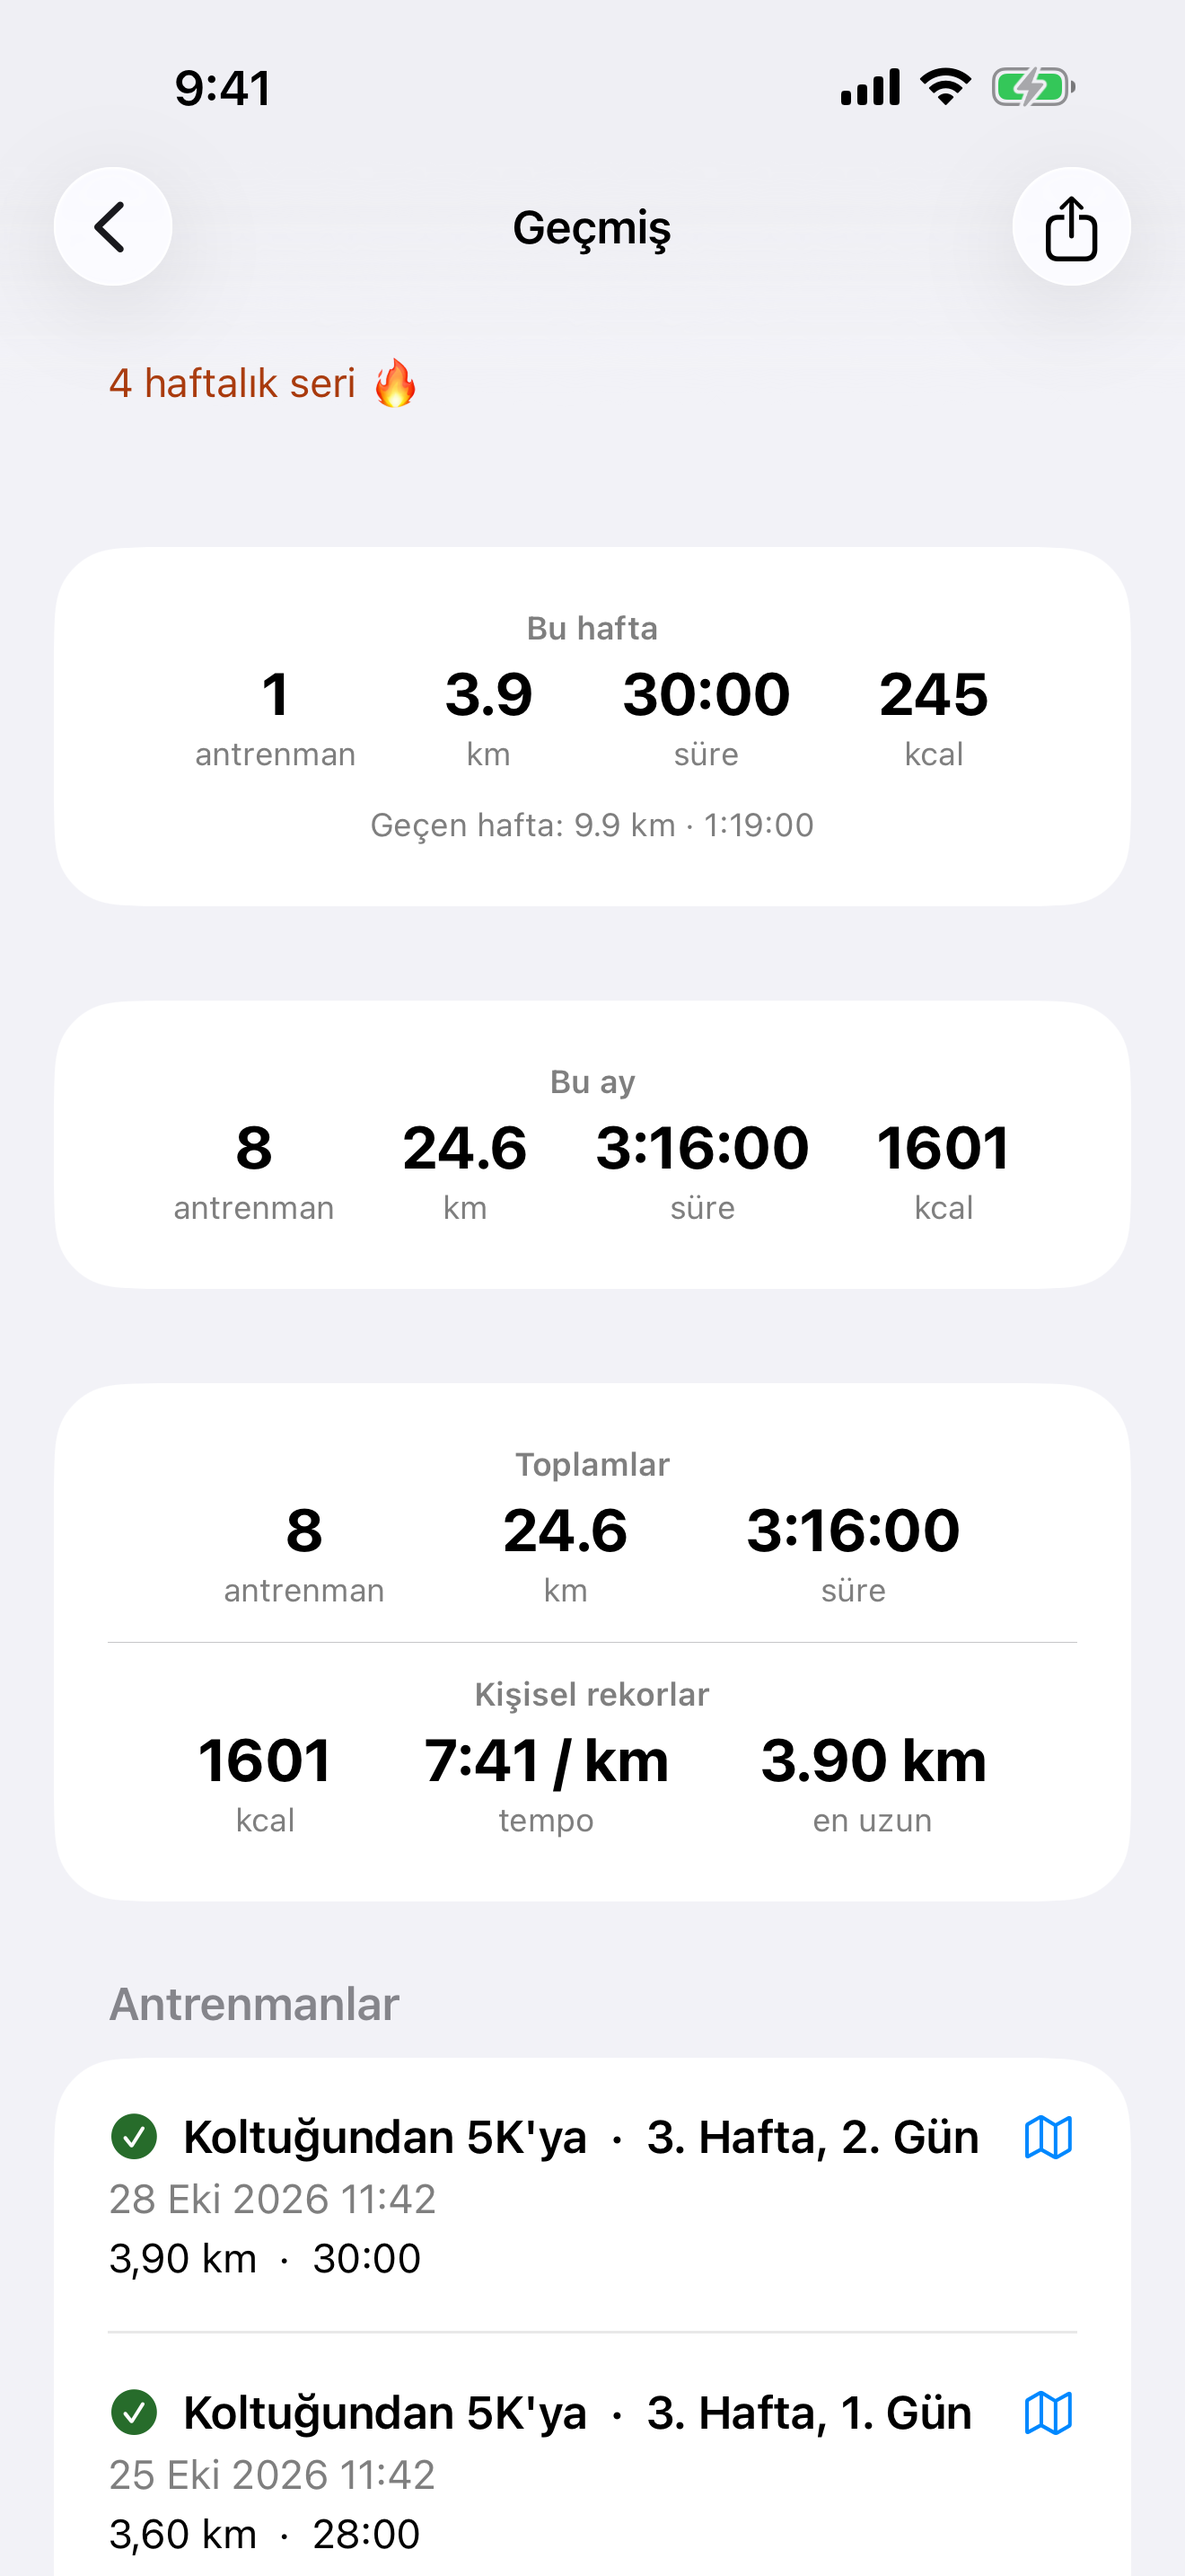
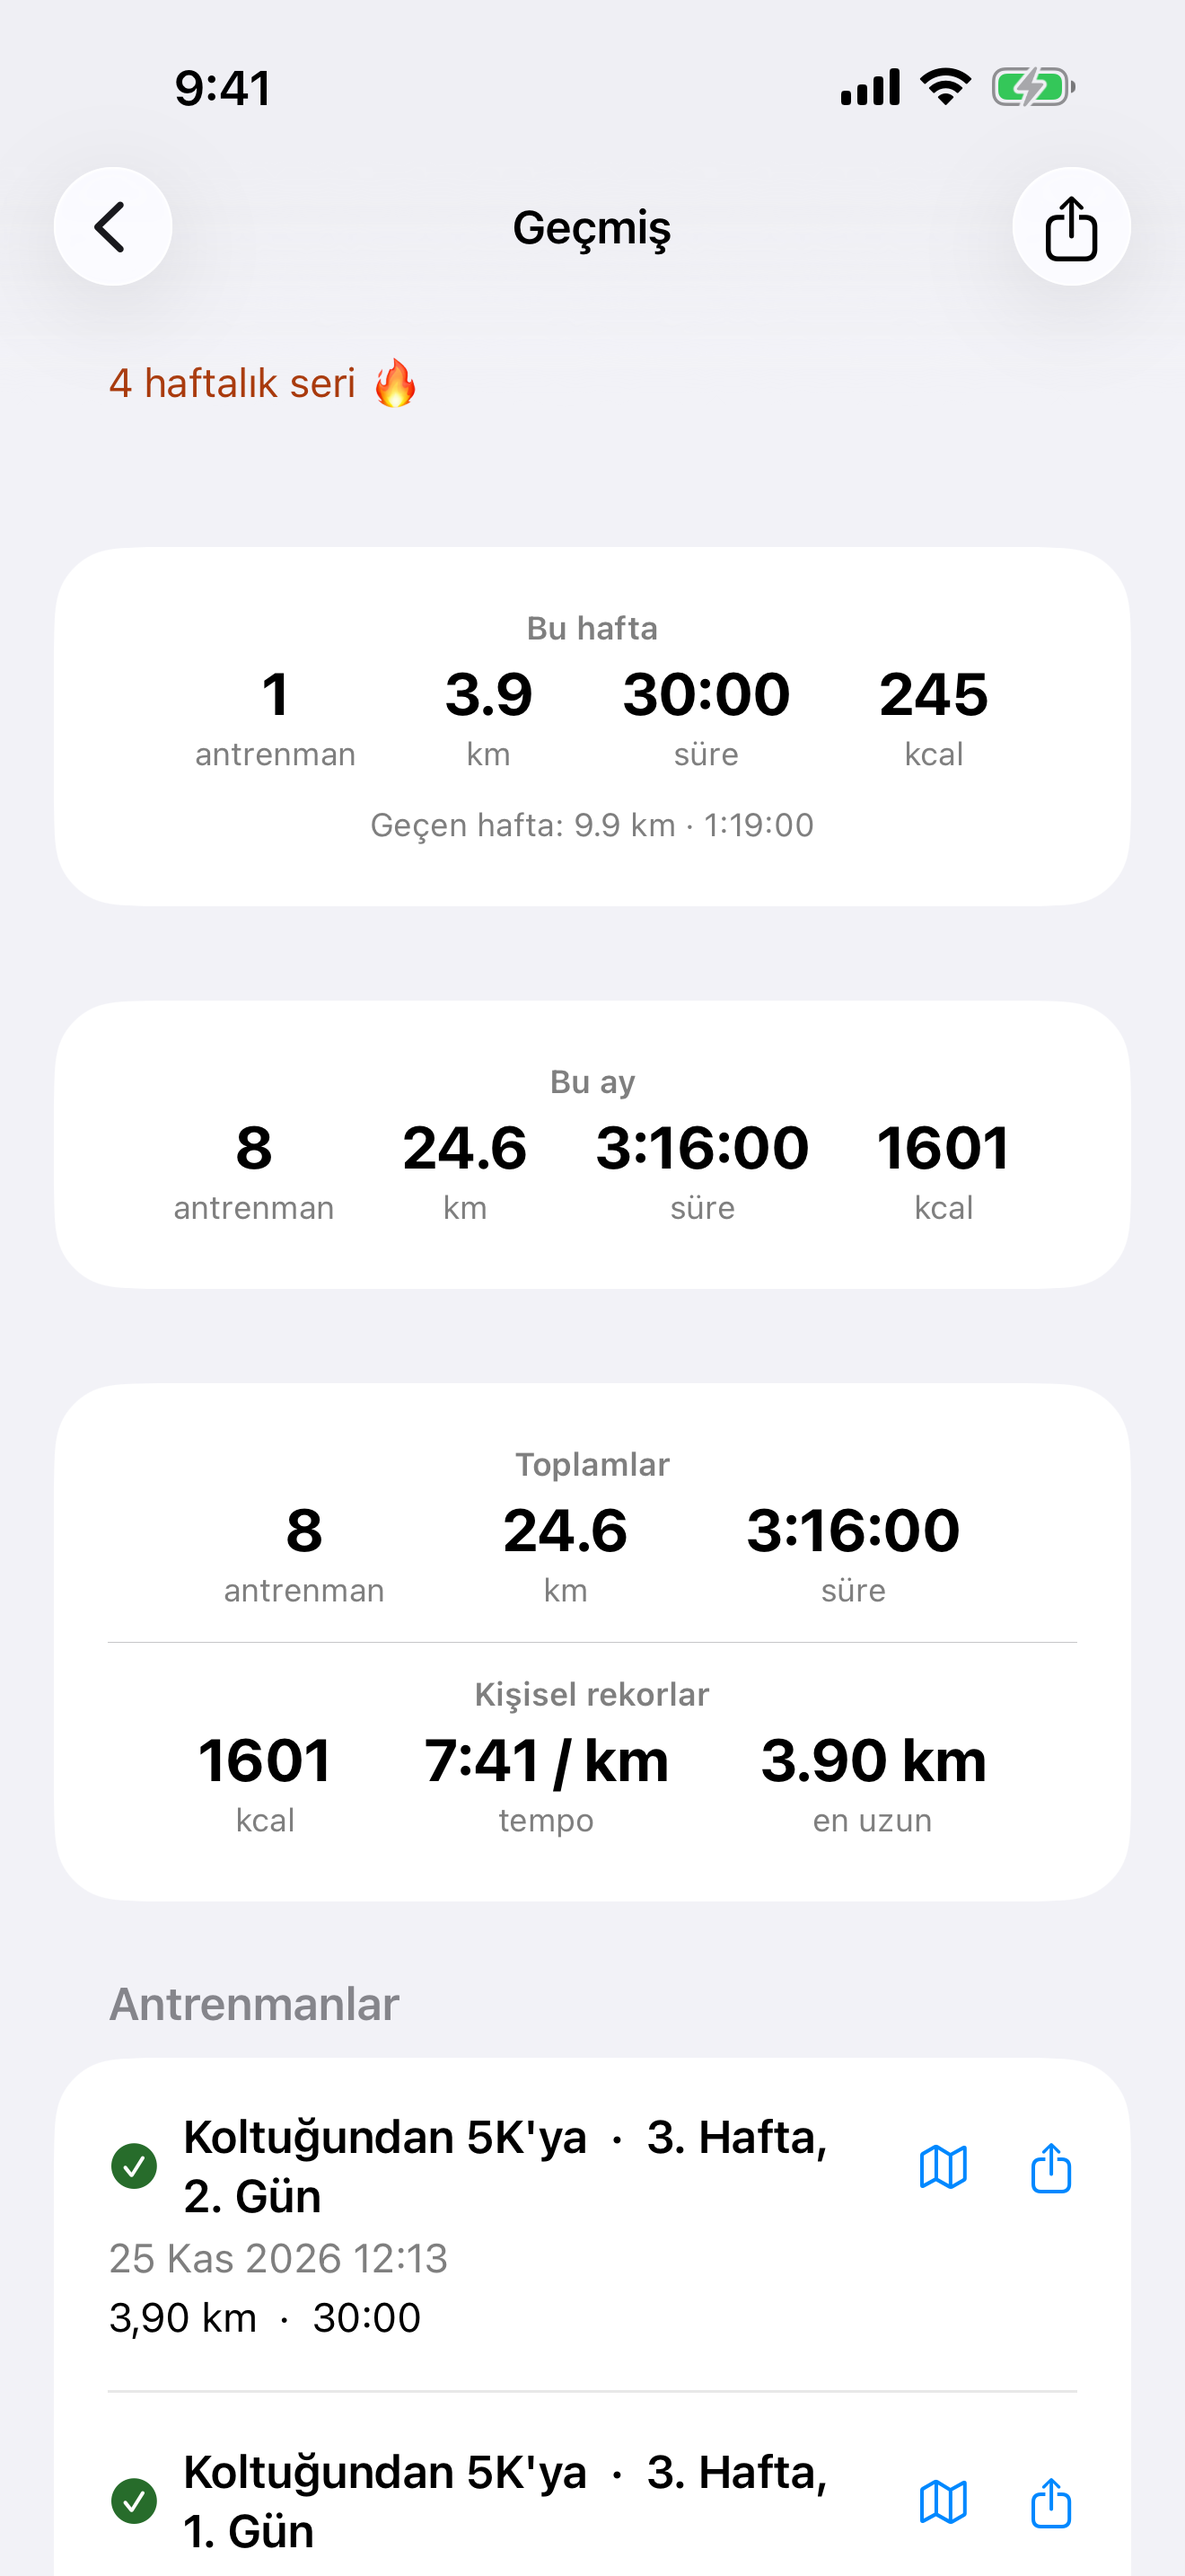
Add the share image to the App Store screenshots
A ninth slide shows the share sheet from History, with captions in every language. The
walkthrough opens it on the newest workout, which the screenshot seed gives a route.

diff --git a/UITests/ScreenshotTests.swift b/UITests/ScreenshotTests.swift
@@ -30,6 +30,18 @@ final class ScreenshotTests: XCTestCase {
         tap(app.buttons["nav-history"])
         waitForScreen("screen-history")
         snapshot("05_history")
+
+        // The share image for the newest workout, which the seed gives a route to draw.
+        let share = app.buttons["history-share"].firstMatch
+        XCTAssertTrue(share.waitForExistence(timeout: 10))
+        for _ in 0..<8 where !share.isHittable { app.swipeUp() }
+        share.tap()
+        waitForScreen("share-card-sheet")
+        XCTAssertTrue(app.buttons["share-card-share"].waitForExistence(timeout: 10))
+        Thread.sleep(forTimeInterval: 1)       // let the rendered image replace the spinner
+        snapshot("09_share")
+        app.buttons["share-card-done"].tap()
+        XCTAssertTrue(marker("screen-history").waitForExistence(timeout: 10))
         goBack()
 
         tap(app.buttons["nav-guide"])

diff --git a/Sources/Views/ShareCardView.swift b/Sources/Views/ShareCardView.swift
@@ -159,6 +159,7 @@ struct ShareCardSheet: View {
             .toolbar {
                 ToolbarItem(placement: .cancellationAction) {
                     Button("Done") { dismiss() }
+                        .accessibilityIdentifier("share-card-done")
                 }
             }
         }
